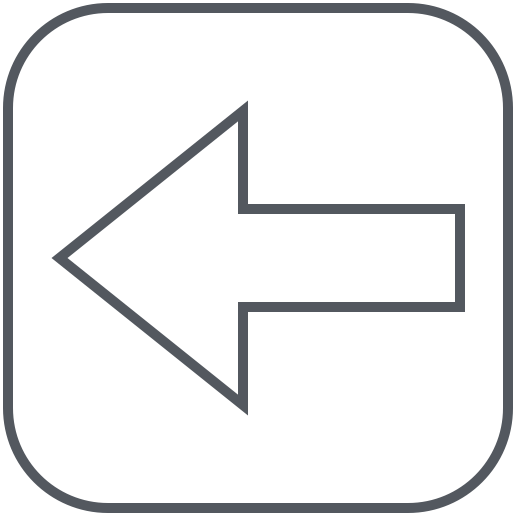
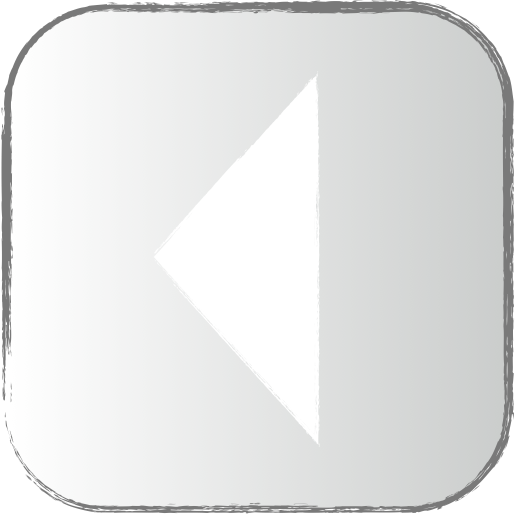
DDR: modif visuelles lp+notes

diff --git a/src/main/java/teachtheteensy/minigames/ddr/DDR.java b/src/main/java/teachtheteensy/minigames/ddr/DDR.java
@@ -2,12 +2,12 @@ package teachtheteensy.minigames.ddr;
 
 import javafx.scene.SnapshotParameters;
 import javafx.scene.canvas.GraphicsContext;
+import javafx.scene.effect.Effect;
+import javafx.scene.effect.Glow;
 import javafx.scene.image.Image;
 import javafx.scene.image.ImageView;
 import javafx.scene.input.KeyEvent;
 import javafx.scene.paint.Color;
-import javafx.scene.text.Text;
-import javafx.scene.text.Font;
 import teachtheteensy.Assets;
 import teachtheteensy.Game;
 import teachtheteensy.minigames.Minigame;
@@ -27,8 +27,10 @@ public class DDR extends Minigame {
     private int tick=0;
 
     // déclaration des images
-    private final Image leftArrow= Assets.getImage("ddr/leftArrow.png");
-    private final Image background=Assets.getImage("ddr/Background.png");
+    private final Image leftArrow = Assets.getImage("ddr/leftArrow.png");
+    private final Image background = Assets.getImage("ddr/Background.png");
+    private final Image barreLp = Assets.getImage("ddr/barreLp.png");
+    private final Image cadreBarreLp = Assets.getImage("ddr/cadreBarreLp.png");
 
     // couleurs
     private Color dimRed = new Color(1,0.0,0.0,0.5);
@@ -45,10 +47,15 @@ public class DDR extends Minigame {
     // compteur de points
     public int count=0;
     private int status=0;
-    private int lp=Game.getInstance().getScreenWidth()-50;
+    private int lp=Game.getInstance().getScreenWidth()-60;
     private boolean ouch=false; // =true si on doit perdre un pv
-    private int timerPv=0; // timer pour rajouter un pv
 
+    private static final Effect GLOW;
+    static {
+        Glow glow = new Glow();
+        glow.setLevel(0.5);
+        GLOW = glow;
+    }
 
     @Override
     public void tick() {
@@ -66,28 +73,30 @@ public class DDR extends Minigame {
                 newNote.col=4;
             }
             allNotes.add(newNote);
+            if (lp < Game.getInstance().getScreenWidth()-50) {
+                lp+=2;
+            }
             tick=0;
             return;
         }
         for (int i=1; i<=allNotes.size();i++){
             if (allNotes.get(i-1).y>Game.getInstance().getScreenHeight()) {
                 allNotes.remove(i-1);
+                ouch=true;
             } else {
                 allNotes.get(i-1).y+=10;     // vitesse chute notes
             }
         }
 
         // enlever des pvs
-        if (ouch==true) {
-            lp-=50;
+        if (ouch) {
+            lp-=100;
             ouch=false;
         }
-        // rajouter des pvs
-        if ((timerPv == 100) & (lp < (Game.getInstance().getScreenWidth() - 50))) {
-            lp+=5;
-            timerPv=0;
-        }
-        timerPv++;
+
+
+        // fin de jeu
+
         tick++;
 
     }
@@ -144,26 +153,14 @@ public class DDR extends Minigame {
         ctx.drawImage(rightArrow, Game.getInstance().getScreenWidth()*2/3+330, Game.getInstance().getScreenHeight()-150, 100,100);
 
             // affichage barre de vie
-        ctx.setFill(Color.LIGHTGRAY);
-        ctx.fillRect( 20, 25, Game.getInstance().getScreenWidth()-40, 50);
+        ctx.drawImage(barreLp, 50, 25, Game.getInstance().getScreenWidth()-100, 50);
         ctx.setFill(Color.RED);
-        ctx.fillRect(25, 30, lp, 40);
+        ctx.fillRect(lp, 30, Game.getInstance().getScreenWidth()-60-lp, 40);
+        ctx.drawImage(cadreBarreLp, 45, 25, Game.getInstance().getScreenWidth()-90, 50);
 
             // affichage validation
         if (status==1) {
             ctx.setFill(dimBlue);
-            ctx.fillRect(0, 0, Game.getInstance().getScreenWidth(), Game.getInstance().getScreenHeight());
-            status=0;
-        } else if (status==2) {
-            ctx.setFill(dimYellow);
-            ctx.fillRect(0, 0, Game.getInstance().getScreenWidth(), Game.getInstance().getScreenHeight());
-            status=0;
-        } else if (status==3) {
-            ctx.setFill(dimGreen);
-            ctx.fillRect(0, 0, Game.getInstance().getScreenWidth(), Game.getInstance().getScreenHeight());
-            status=0;
-        } else if (status==4) {
-            ctx.setFill(dimRed);
             ctx.fillRect(0, 0, Game.getInstance().getScreenWidth(), Game.getInstance().getScreenHeight());
             status=0;
         }
@@ -176,7 +173,7 @@ public class DDR extends Minigame {
         switch(event.getCode()) {
             case LEFT:
                 for (int i=1; i<=allNotes.size(); i++) {
-                    if ((allNotes.get(i-1).col==1) & (Game.getInstance().getScreenHeight()-240 <= allNotes.get(i-1).y) & (allNotes.get(i-1).y <= Game.getInstance().getScreenHeight()-100)){
+                    if ((allNotes.get(i-1).col==1) && (Game.getInstance().getScreenHeight()-240 <= allNotes.get(i-1).y) && (allNotes.get(i-1).y <= Game.getInstance().getScreenHeight()-100)){
                         allNotes.remove(i-1);
                         count++;
                         status=1;
@@ -190,10 +187,10 @@ public class DDR extends Minigame {
 
             case UP:
                 for (int i=1; i<=allNotes.size(); i++) {
-                    if ((allNotes.get(i-1).col==2) & (Game.getInstance().getScreenHeight()-240 <= allNotes.get(i-1).y) & (allNotes.get(i-1).y <= Game.getInstance().getScreenHeight()-100)){
+                    if ((allNotes.get(i-1).col==2) && (Game.getInstance().getScreenHeight()-240 <= allNotes.get(i-1).y) && (allNotes.get(i-1).y <= Game.getInstance().getScreenHeight()-100)){
                         allNotes.remove(i-1);
                         count++;
-                        status=2;
+                        status=1;
                     }
                 }
                 if (status==0) {
@@ -204,10 +201,10 @@ public class DDR extends Minigame {
 
             case DOWN:
                 for (int i=1; i<=allNotes.size(); i++) {
-                    if ((allNotes.get(i-1).col==3) & (Game.getInstance().getScreenHeight()-240 <= allNotes.get(i-1).y) & (allNotes.get(i-1).y <= Game.getInstance().getScreenHeight()-100)){
+                    if ((allNotes.get(i-1).col==3) && (Game.getInstance().getScreenHeight()-240 <= allNotes.get(i-1).y) && (allNotes.get(i-1).y <= Game.getInstance().getScreenHeight()-100)){
                         allNotes.remove(i-1);
                         count++;
-                        status=3;
+                        status=1;
                     }
                 }
                 if (status==0) {
@@ -218,10 +215,10 @@ public class DDR extends Minigame {
 
             case RIGHT:
                 for (int i=1; i<=allNotes.size(); i++) {
-                    if ((allNotes.get(i-1).col==4) & (Game.getInstance().getScreenHeight()-240 <= allNotes.get(i-1).y) & (allNotes.get(i-1).y <= Game.getInstance().getScreenHeight()-100)){
+                    if ((allNotes.get(i-1).col==4) && (Game.getInstance().getScreenHeight()-240 <= allNotes.get(i-1).y) && (allNotes.get(i-1).y <= Game.getInstance().getScreenHeight()-100)){
                         allNotes.remove(i-1);
                         count++;
-                        status=4;
+                        status=1;
                     }
                 }
                 if (status==0) {

diff --git a/src/main/java/teachtheteensy/minigames/ddr/Note.java b/src/main/java/teachtheteensy/minigames/ddr/Note.java
@@ -27,7 +27,7 @@ public class Note {
         if (rate()){
             image=imageMissed;
         }
-        ctx.drawImage(image, x, y, 100, 100);
+        ctx.drawImage(image, x+10, y, 80, 80);
     }
 
     public boolean rate (){
